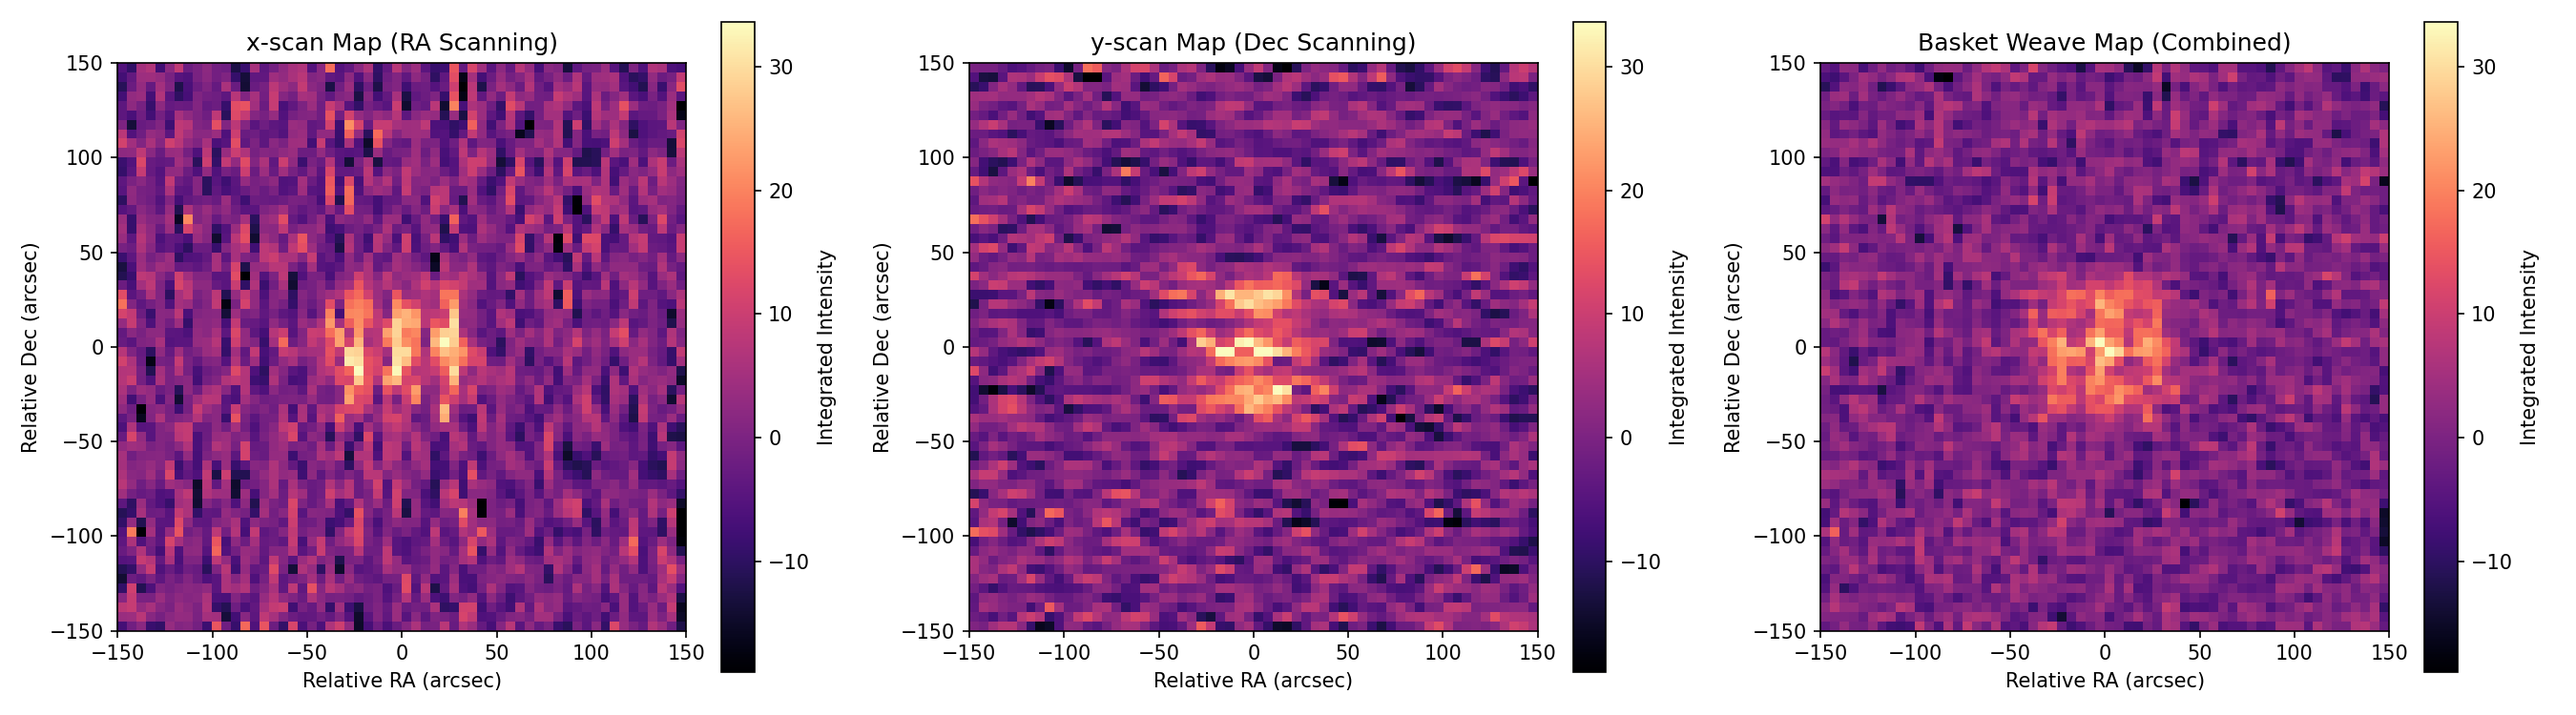
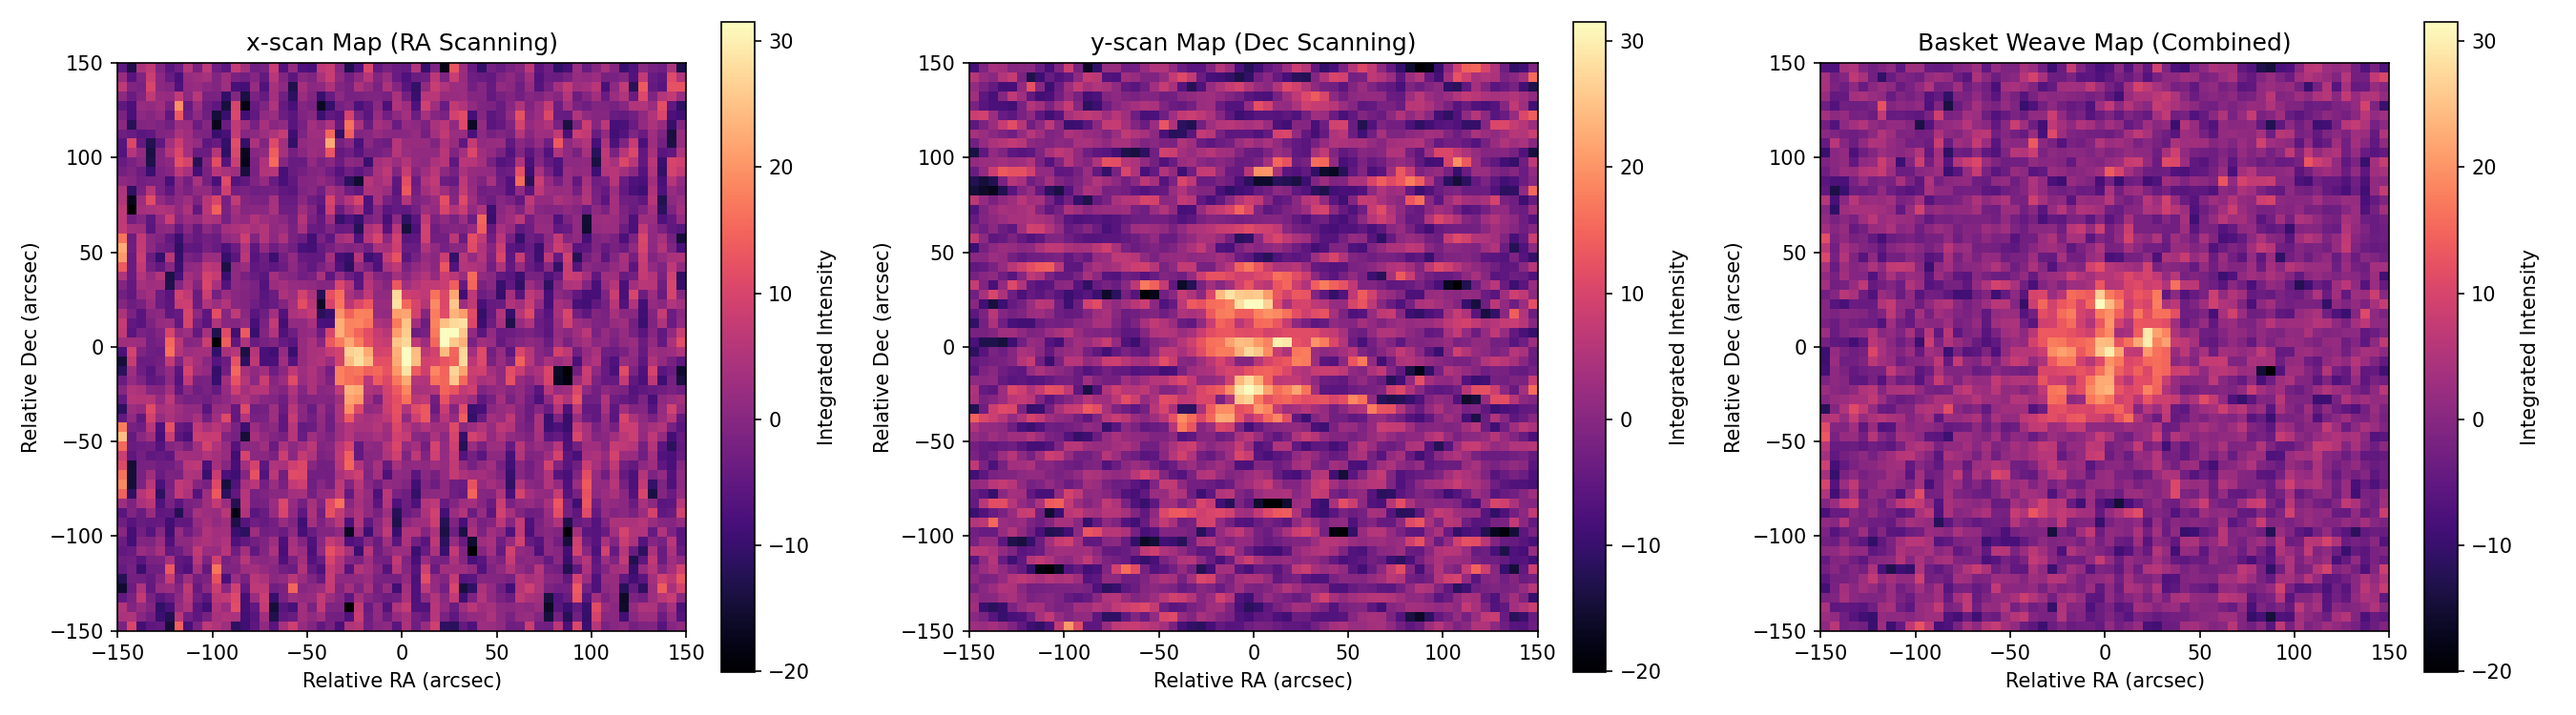
Add visualization scripts for ground truth and noisy data

diff --git a/plot_noisy_data.py b/plot_noisy_data.py
@@ -1,0 +1,69 @@
+import numpy as np
+import matplotlib.pyplot as plt
+
+# nobeyama_fmlo_simulation から関数をインポート
+from nobeyama_fmlo_simulation import (
+    generate_scan_path, 
+    generate_sky_model, 
+    apply_fmlo_modulation, 
+    generate_noise, 
+    fmlo_demodulate, 
+    grid_data
+)
+
+def plot_noisy_data():
+    print("ノイズ添加データのシミュレーションを開始します...")
+    # パラメータ（元コードと同一）
+    extent = [-150, 150, -150, 150]
+    n_lines = 30
+    points_per_line = 100
+    n_time = n_lines * points_per_line
+    n_channels = 256
+    center_ch = 128
+    
+    # 軌跡とシグナルの生成
+    ra_x, dec_x = generate_scan_path('x', n_lines, points_per_line, extent)
+    clean_signal_x = generate_sky_model(ra_x, dec_x, n_channels, center_ch)
+    
+    # FMLO変調
+    modulation_period = 20
+    shift_pattern = np.abs((np.arange(n_time) % modulation_period) - (modulation_period / 2)) - (modulation_period / 4)
+    shift_pattern = shift_pattern * 3.0
+    mod_signal_x = apply_fmlo_modulation(clean_signal_x, shift_pattern)
+    
+    # ノイズ付加（相関ノイズ＋熱雑音）
+    noise = generate_noise(n_time, n_channels)
+    obs_x = mod_signal_x + noise
+    
+    # 描画
+    fig, axs = plt.subplots(1, 2, figsize=(14, 5))
+    
+    # 1. タイムストリーム（ウォーターフォールプロット）の可視化
+    # 変調の様子や相関ノイズの構造を見えやすくするため、最初の500ステップだけを描画
+    time_subset = slice(0, 500)
+    im1 = axs[0].imshow(obs_x[time_subset, :].T, aspect='auto', origin='lower', cmap='viridis')
+    axs[0].set_title('Noisy Timestream (First 500 steps)\nTime vs Frequency Channels')
+    axs[0].set_xlabel('Time Step')
+    axs[0].set_ylabel('Frequency Channel')
+    fig.colorbar(im1, ax=axs[0], label='Intensity')
+    
+    # 2. ダーティマップ（PCAなし）の可視化
+    # 復調は行うが、PCAによるベースライン除去を行わずにマップ化した場合どうなるか
+    demod_x = fmlo_demodulate(obs_x, shift_pattern)
+    integ_range = 15
+    integ_x = np.sum(demod_x[:, center_ch-integ_range:center_ch+integ_range], axis=1)
+    
+    _, _, map_x = grid_data(ra_x, dec_x, integ_x, extent)
+    
+    im2 = axs[1].imshow(map_x.T, origin='lower', extent=extent, cmap='magma')
+    axs[1].set_title('Dirty Map (x-scan, No PCA Baseline Removal)')
+    axs[1].set_xlabel('Relative RA (arcsec)')
+    axs[1].set_ylabel('Relative Dec (arcsec)')
+    fig.colorbar(im2, ax=axs[1], label='Integrated Intensity')
+    
+    plt.tight_layout()
+    plt.savefig('noisy_data_visualization.png', dpi=150)
+    print("完了しました。可視化画像を 'noisy_data_visualization.png' に保存しました。")
+
+if __name__ == '__main__':
+    plot_noisy_data()

diff --git a/plot_ground_truth.py b/plot_ground_truth.py
@@ -1,0 +1,39 @@
+import numpy as np
+import matplotlib.pyplot as plt
+
+def plot_ground_truth():
+    # nobeyama_fmlo_simulation.py の設定に合わせたパラメータ
+    extent = [-150, 150, -150, 150] # 空間範囲 (arcsec)
+    spatial_size = 50.0             # 天体の空間サイズ (arcsec)
+    
+    # 規則的な2次元グリッドの生成
+    ra_grid = np.linspace(extent[0], extent[1], 300)
+    dec_grid = np.linspace(extent[2], extent[3], 300)
+    RA, DEC = np.meshgrid(ra_grid, dec_grid)
+    
+    # 真の天体空間分布（ガウシアンボール）を計算
+    # FWHM = 50 arcsec から sigma への変換
+    sigma = spatial_size / 2.355
+    spatial_profile = np.exp(-((RA)**2 + (DEC)**2) / (2 * sigma**2))
+    
+    # 描画
+    plt.figure(figsize=(7, 6))
+    # シミュレーションの出力マップと同じ 'magma' カラーマップを使用
+    im = plt.imshow(spatial_profile, origin='lower', extent=extent, cmap='magma')
+    
+    plt.title('Ground Truth (Target Sky Model - 50 arcsec)')
+    plt.xlabel('Relative RA (arcsec)')
+    plt.ylabel('Relative Dec (arcsec)')
+    plt.colorbar(im, label='Normalized Intensity')
+    
+    # 半値幅(FWHM)を示す円を追加（オプション: 視覚的な目安として）
+    circle = plt.Circle((0, 0), spatial_size/2, color='white', fill=False, linestyle='--', alpha=0.7, label='FWHM (50 arcsec)')
+    plt.gca().add_patch(circle)
+    plt.legend(loc='upper right')
+    
+    plt.tight_layout()
+    plt.savefig('ground_truth_map.png', dpi=150)
+    print("完了しました。真の天体分布マップを 'ground_truth_map.png' として保存しました。")
+
+if __name__ == '__main__':
+    plot_ground_truth()
